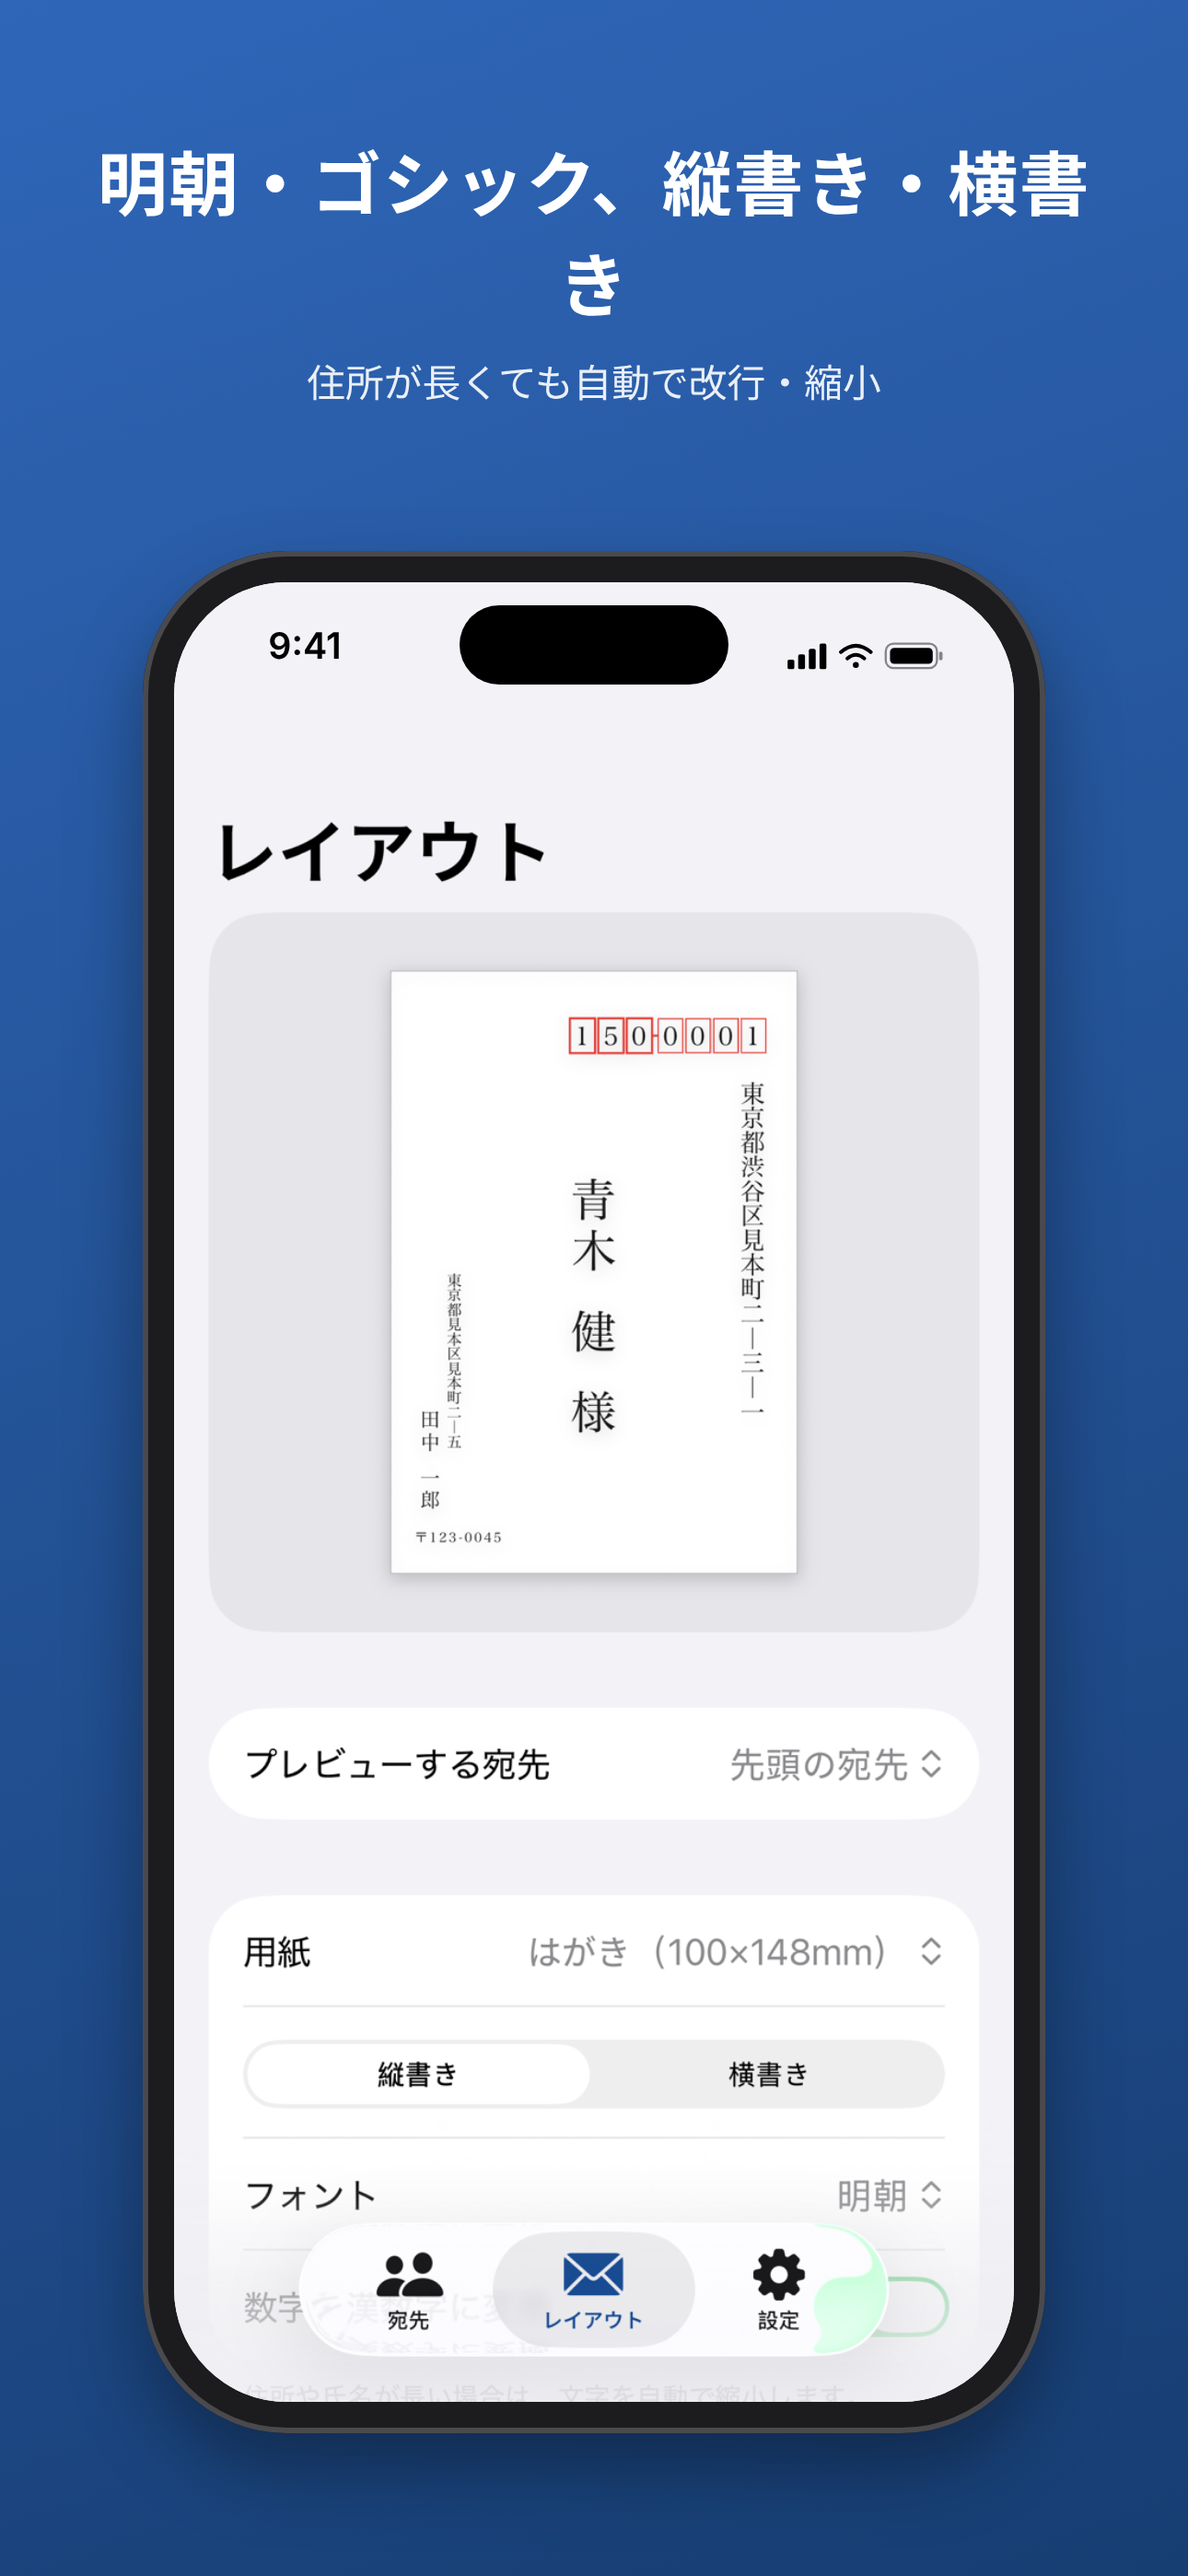
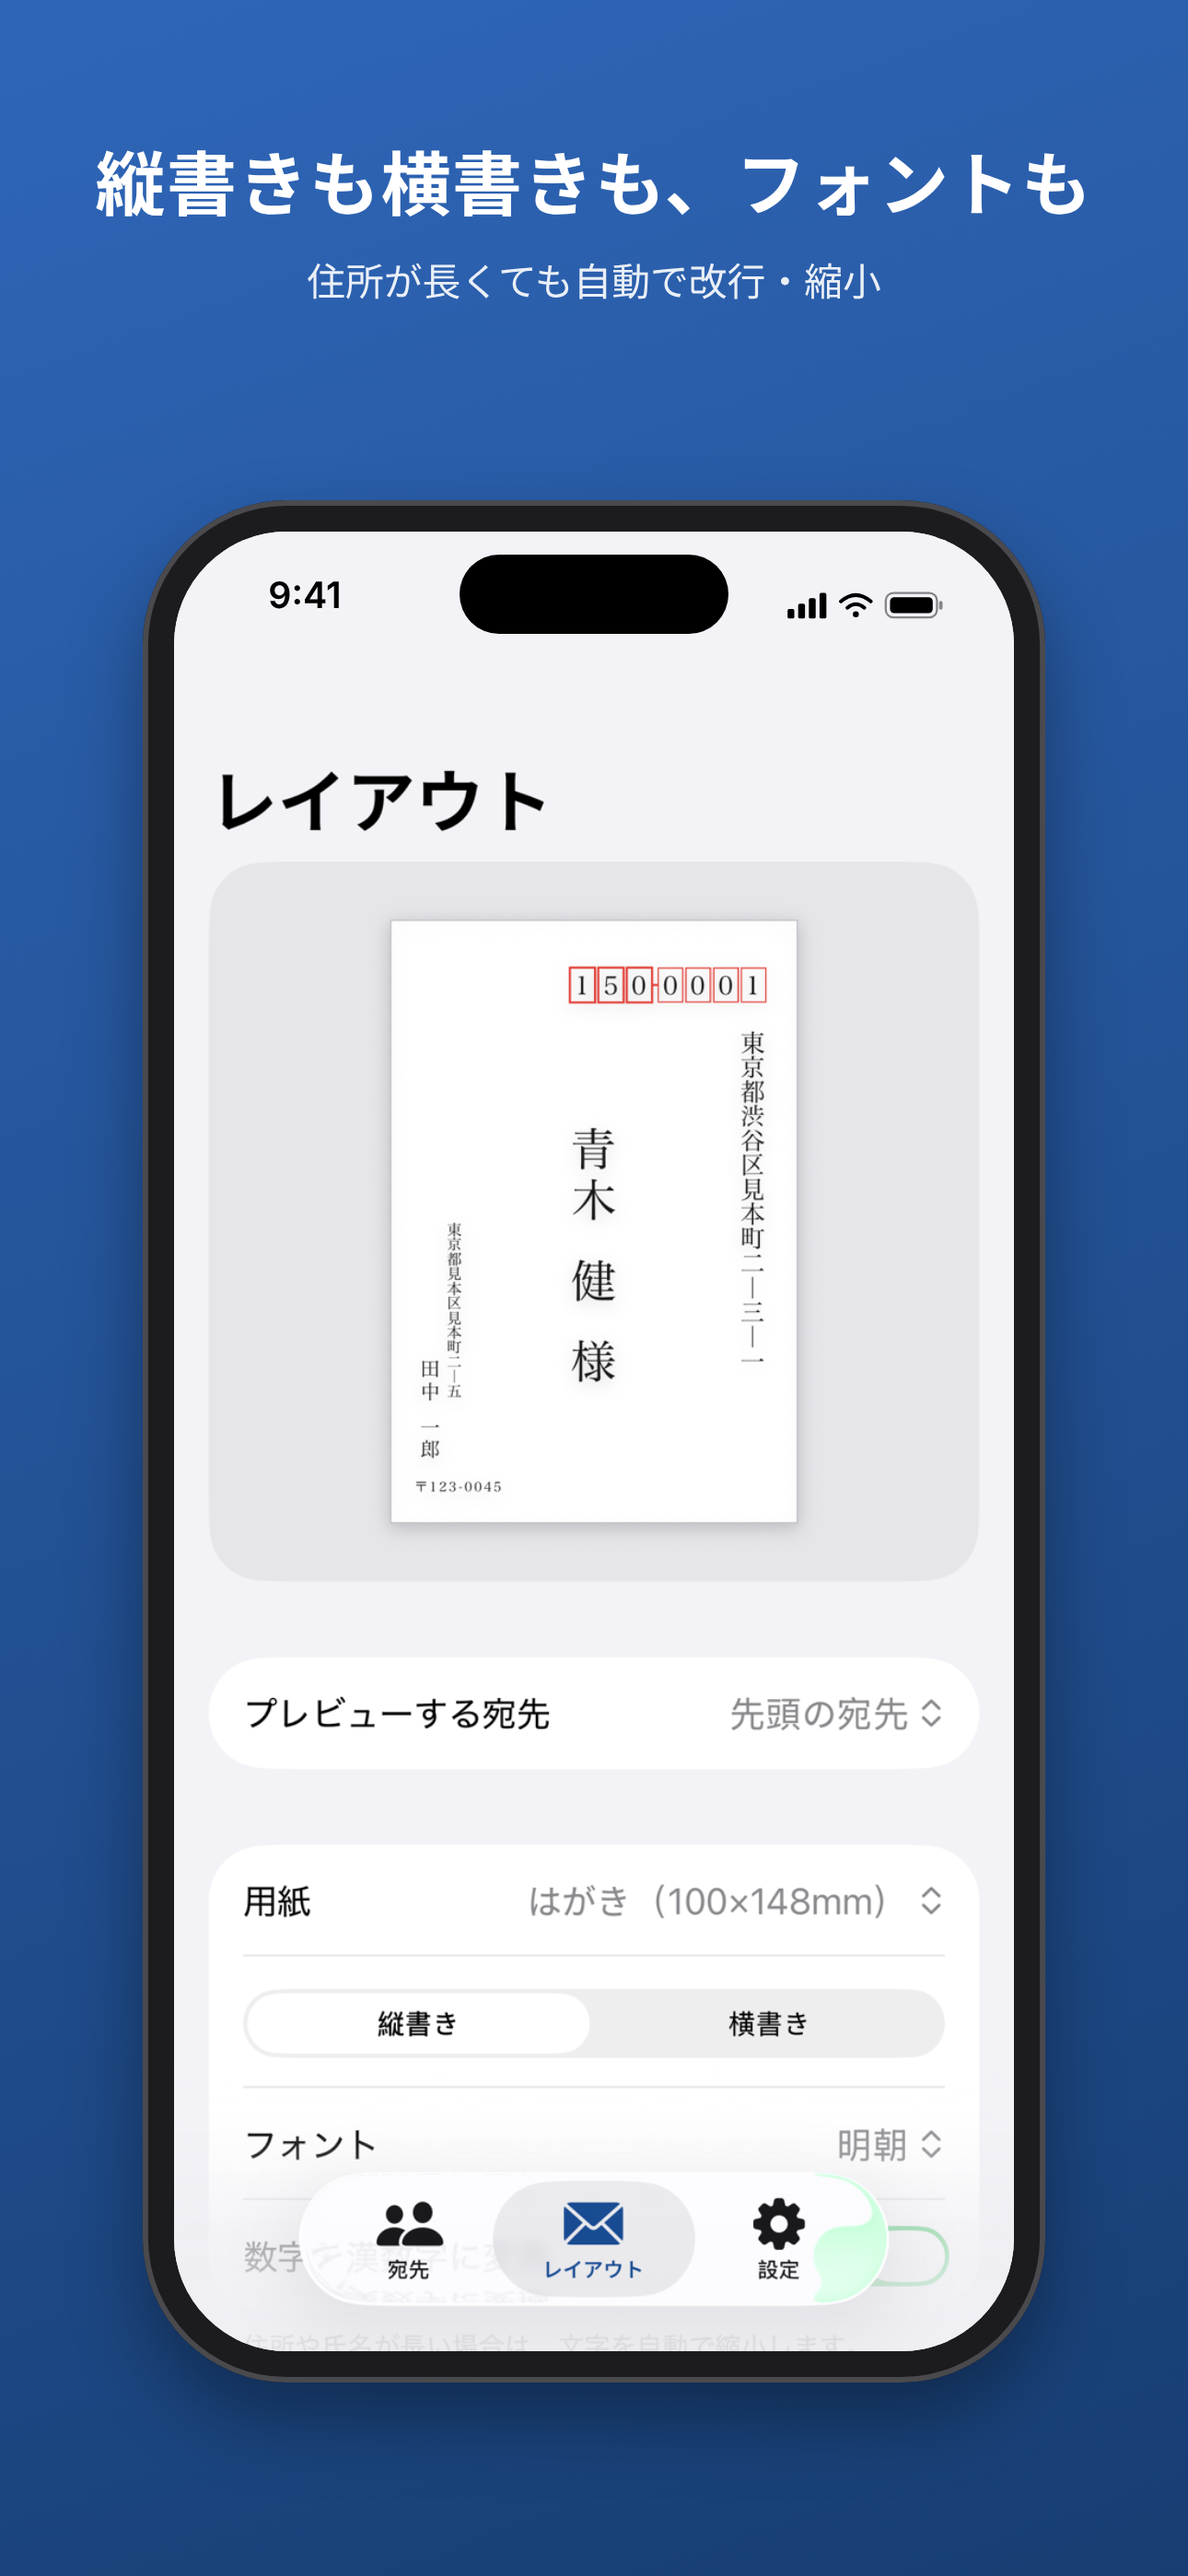
Mockups: shorter headline for the layout screen
Claude-Session: https://claude.ai/code/session_01Jxq82q3EVSJNsZ86Sm8Rww

diff --git a/tools/mockups/build.py b/tools/mockups/build.py
@@ -109,7 +109,7 @@ def main() -> None:
         ("iphone-1", "screen-iphone-list.png", "年賀状の宛名を、まとめて印刷", "グループごとに未印刷だけを一括印刷"),
         ("iphone-2", "screen-iphone-preview.png", "郵便番号枠にぴったり縦書き", "連名・敬称もきれいにそろえて配置"),
         ("iphone-3", "screen-iphone-csv.png", "住所録はCSVで一括取り込み", "Excel の CSV（Shift_JIS）にも対応"),
-        ("iphone-4", "screen-iphone-layout.png", "明朝・ゴシック、縦書き・横書き", "住所が長くても自動で改行・縮小"),
+        ("iphone-4", "screen-iphone-layout.png", "縦書きも横書きも、フォントも", "住所が長くても自動で改行・縮小"),
     ]
     for name, file, title, subtitle in iphone_shots:
         if (src / file).exists():
